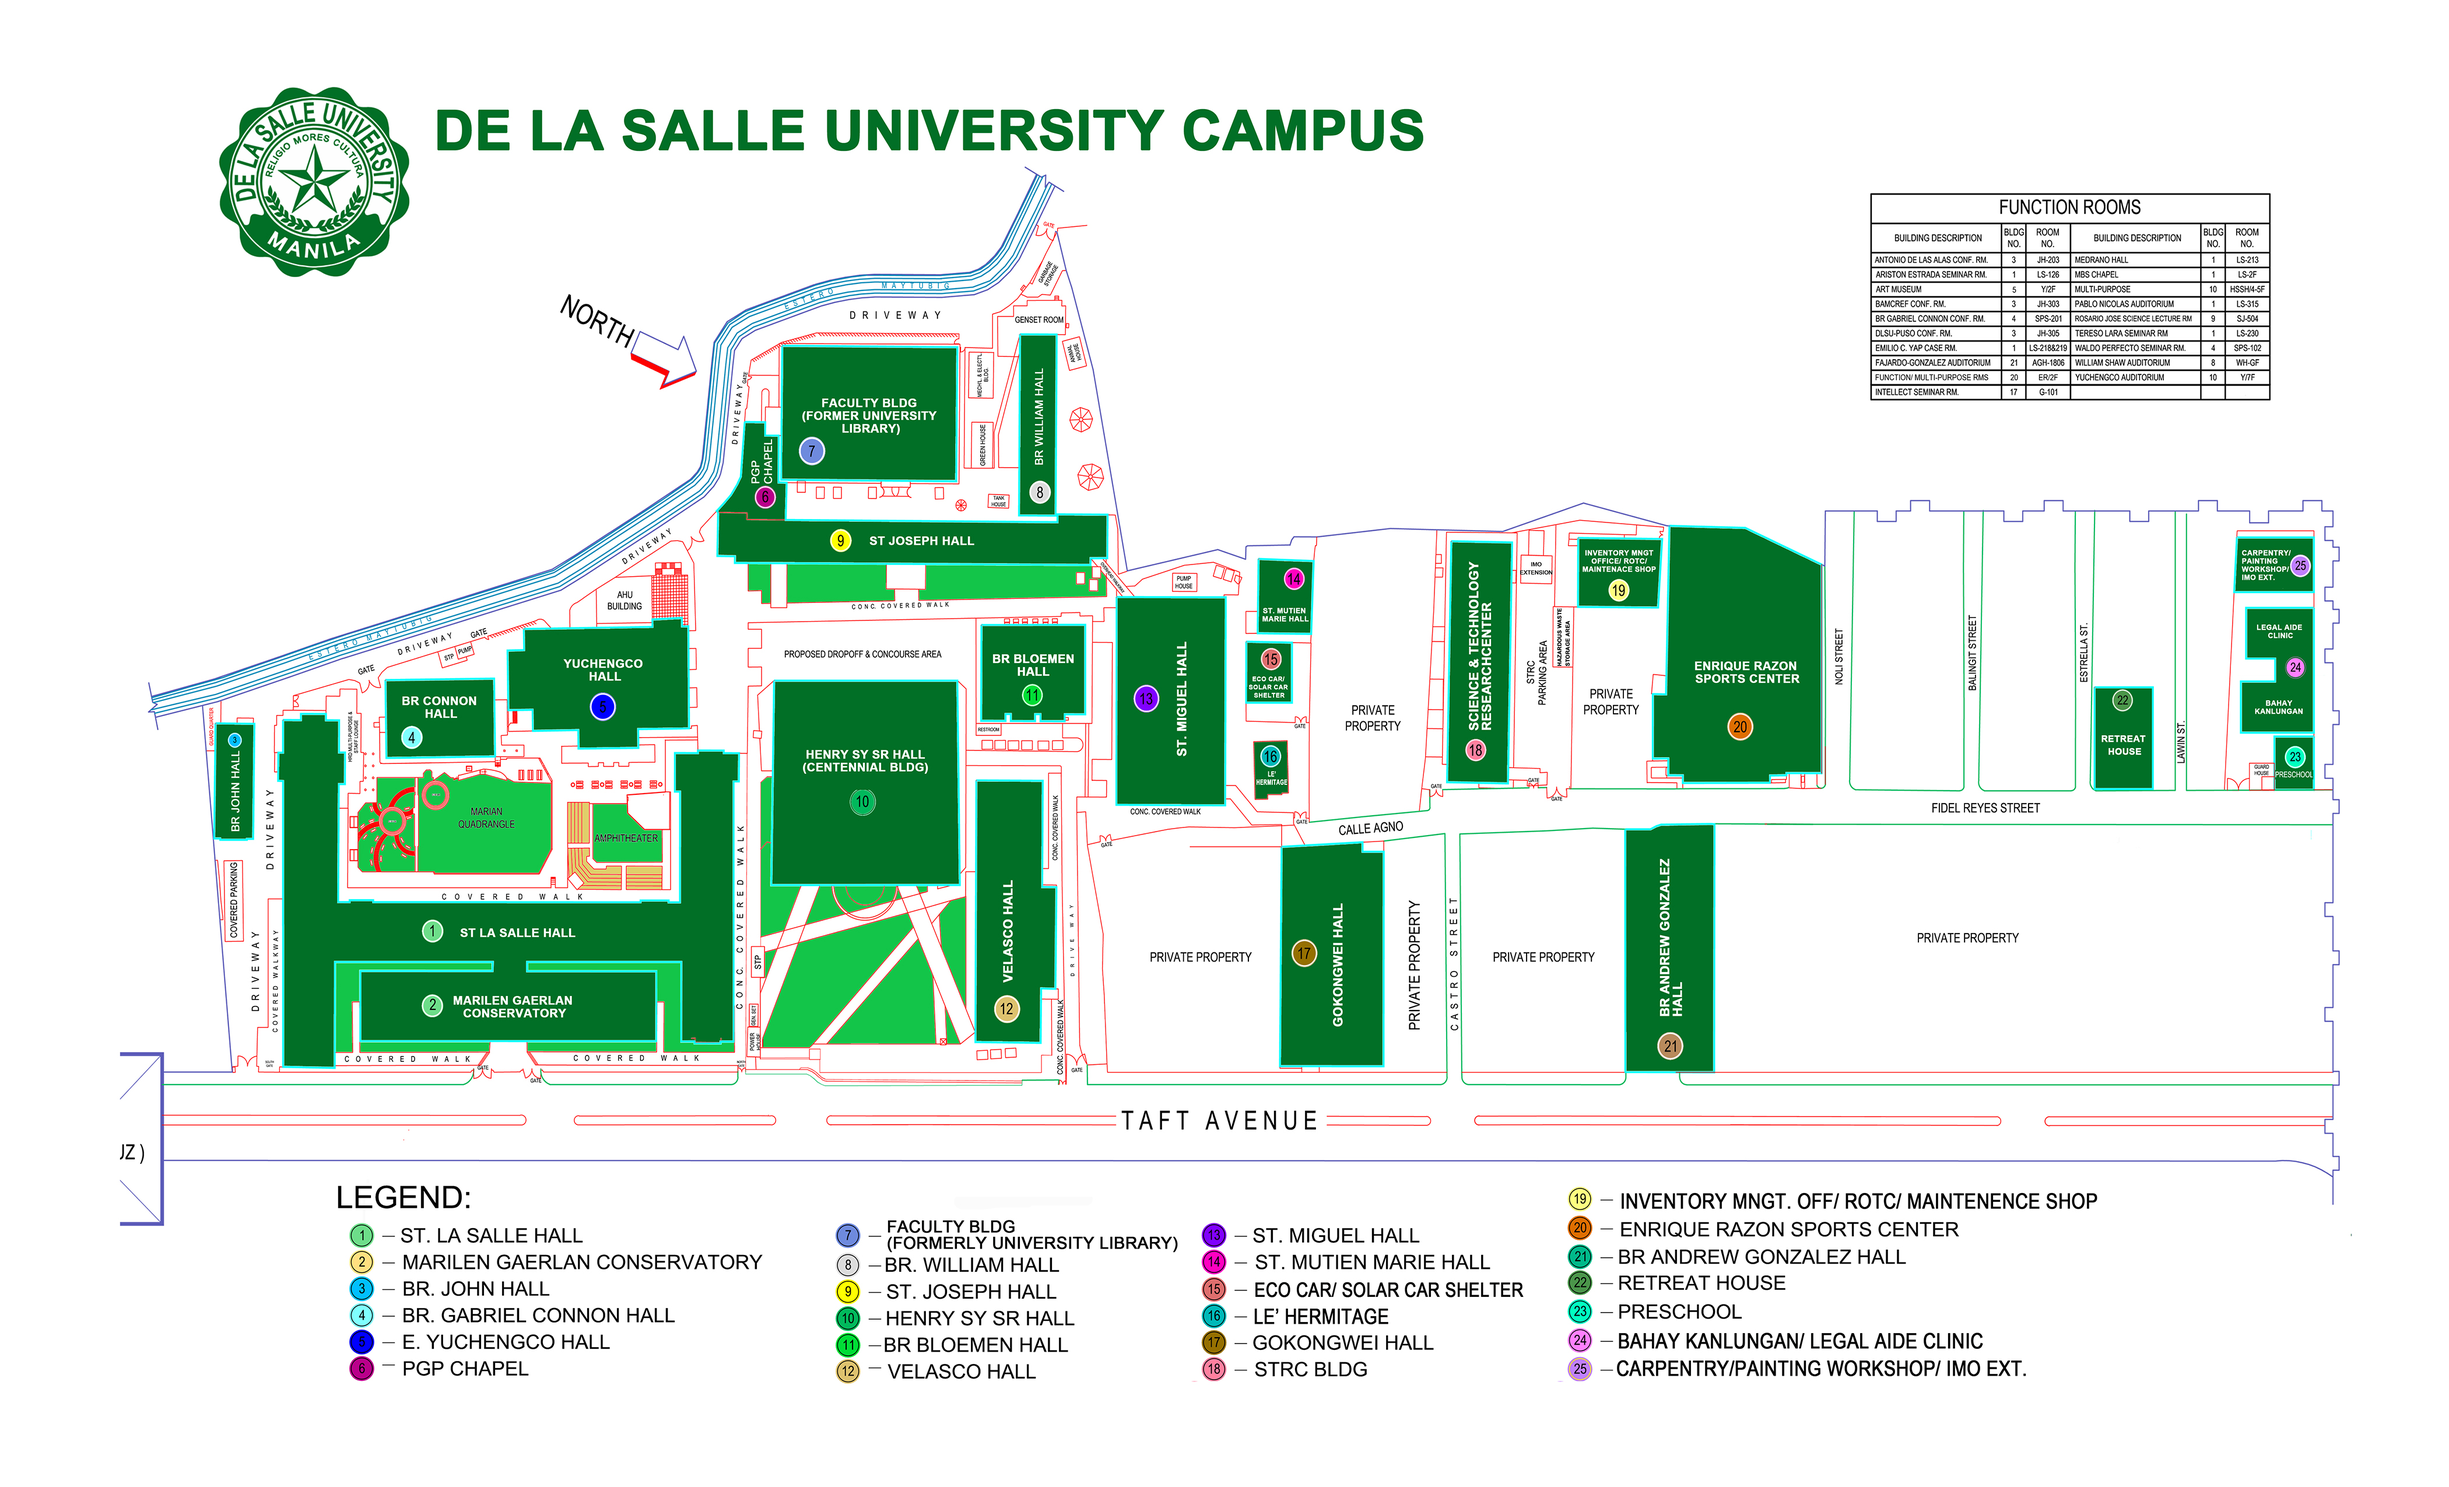
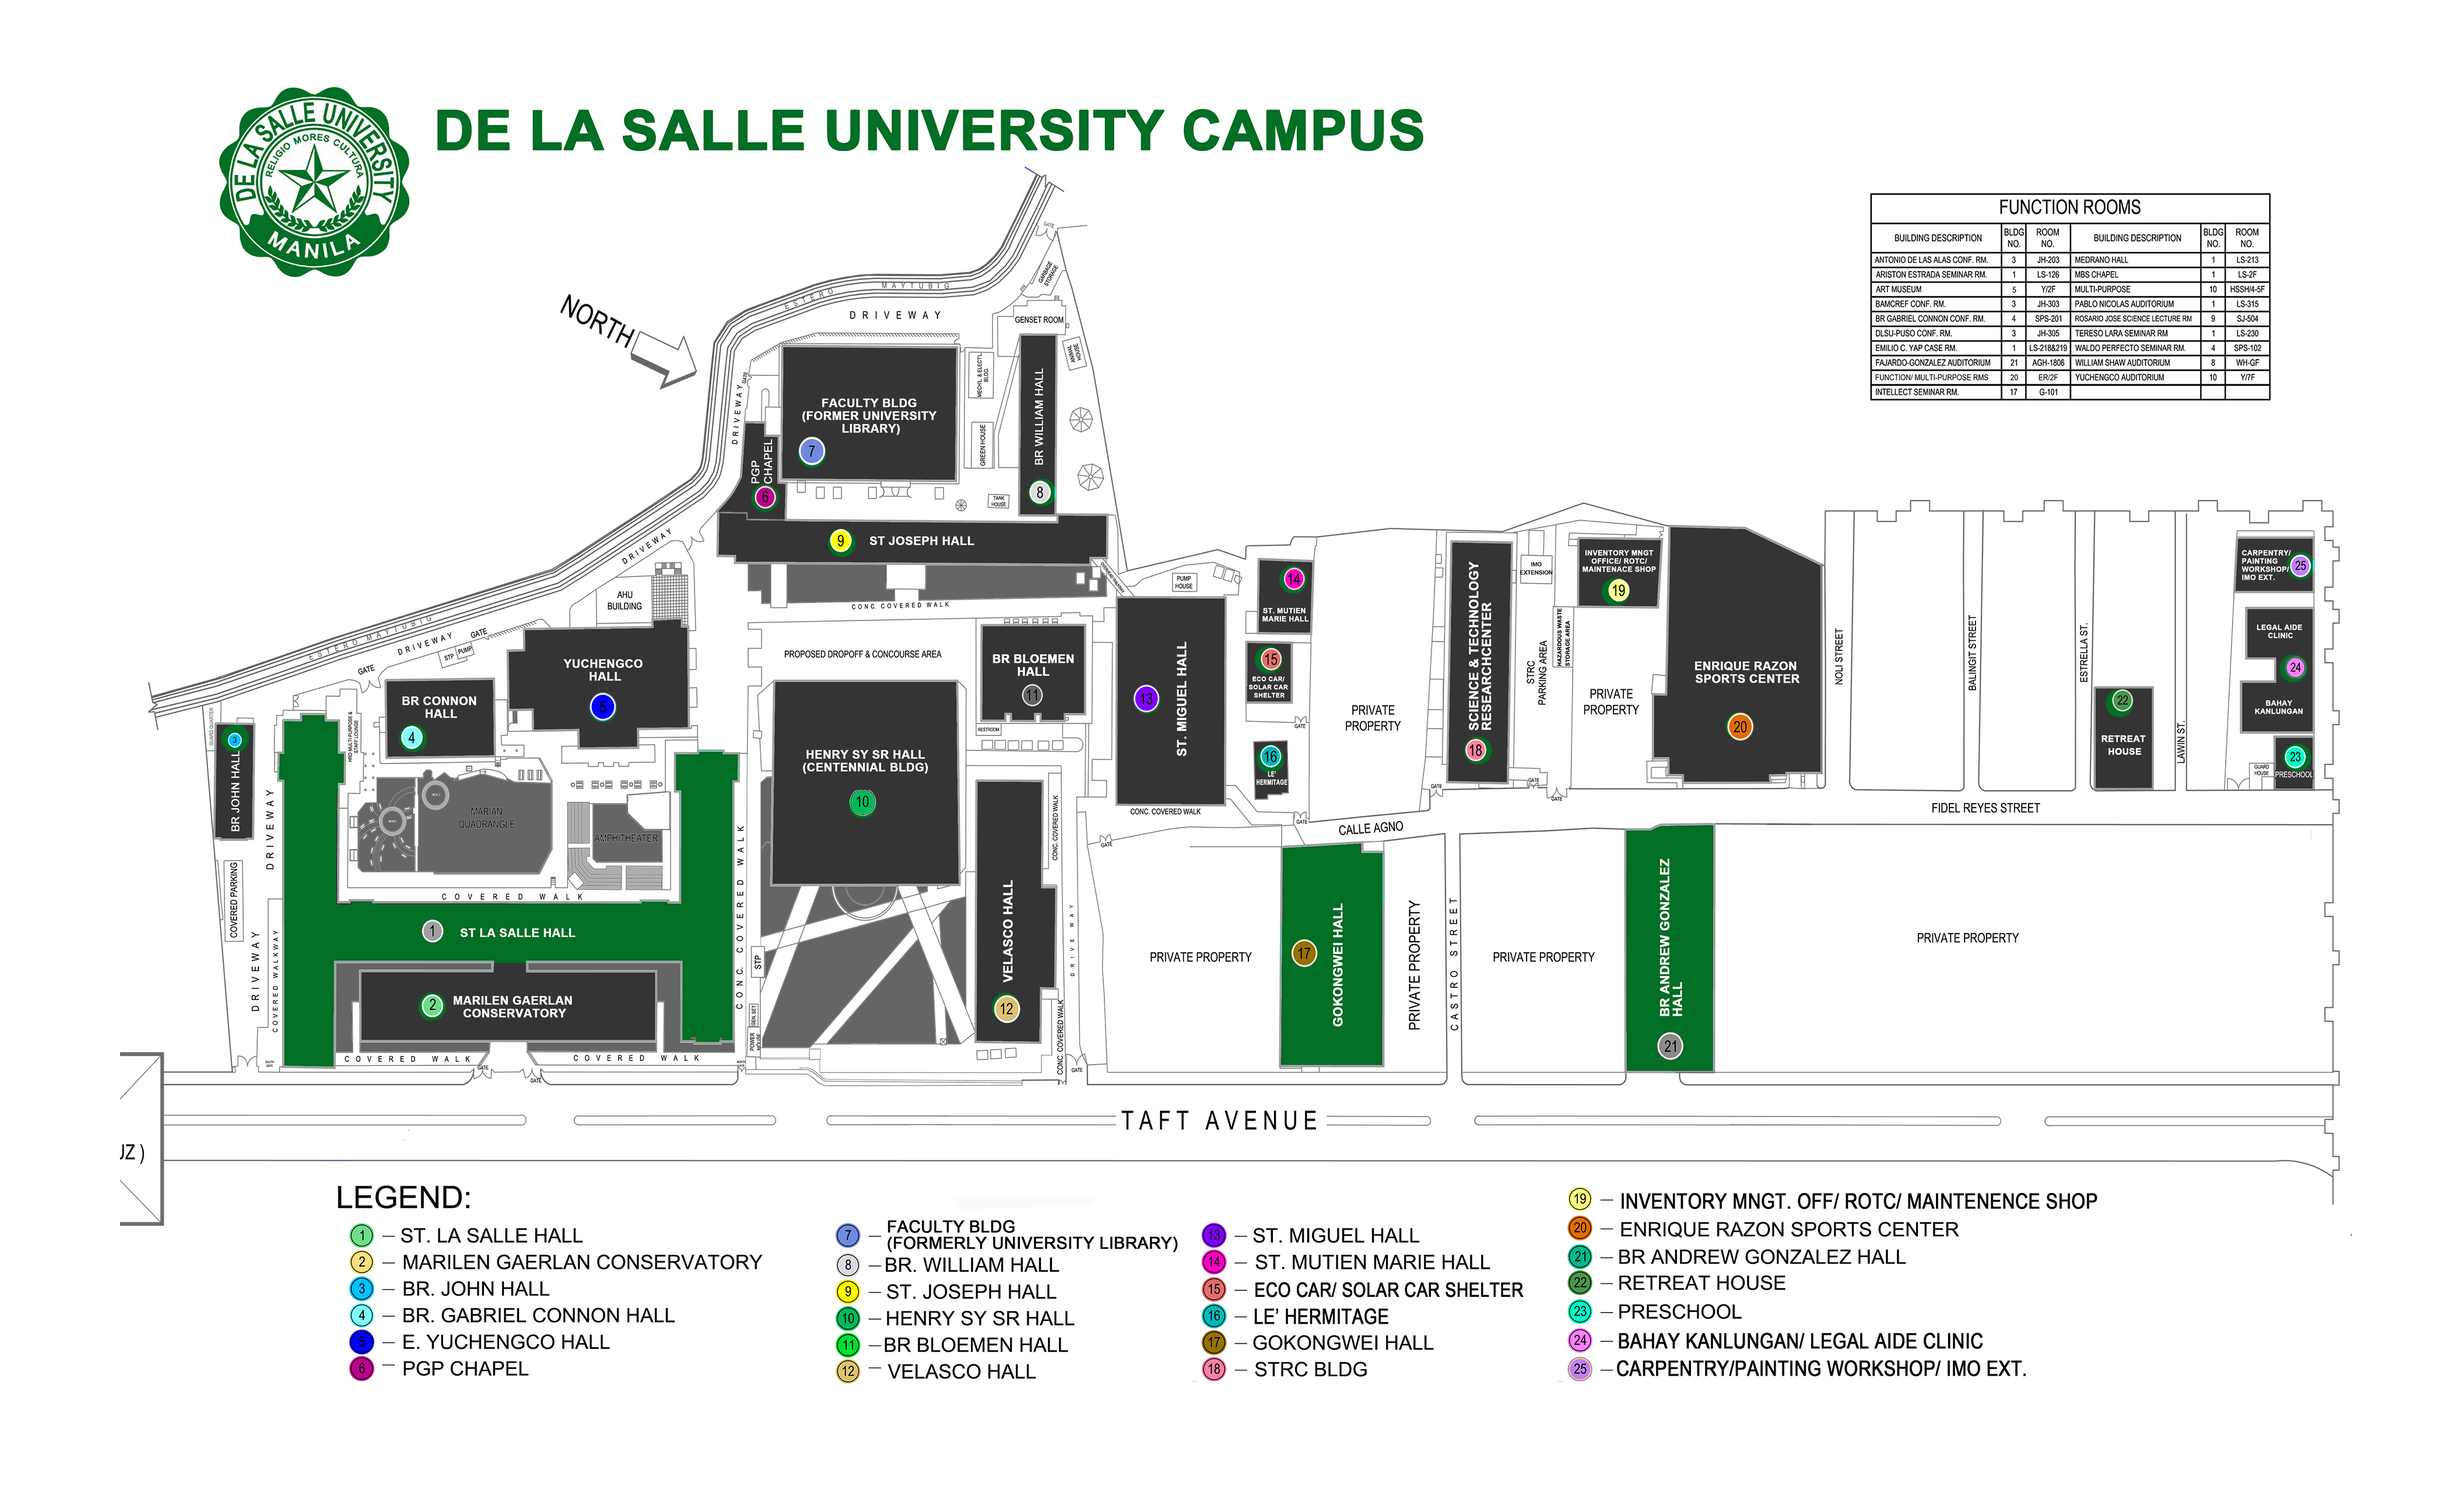
updated locations

diff --git a/LRS_Web_Application/src/components/style.css b/LRS_Web_Application/src/components/style.css
@@ -301,12 +301,54 @@ body {
 .LocationContainer{
     background-color: white;
     flex: 1;
-
+    display: flex;
+    flex-direction: column;
+    min-height: 100vh;
 }
 
 #locationContent{
     background-color: white;
     display: flex;
     flex-direction: row;
-    min-height: 87.1vh;
+    padding: 30px;
+}
+
+#campusmap{
+    position: relative;
+    display: flex;
+    flex-direction: column;
+
+}
+
+#labsmap{
+    position: relative;
+    display: flex;
+    flex-direction: column;
+}
+
+#campusmap h1, #labsmap h1{
+    color: #00703c;
+    white-space: nowrap;
+    font-weight: 900;
+}
+
+#campusmapimg{
+    position: relative;
+    left: -30px;
+    background-image: url('../assets/campus-map.jpg');
+    background-size: 1121px 700px;
+    width: 1121px;
+    height: 680px;
+    cursor: zoom-in;
+
+    transition: transform 0.3s ease-in-out;
+}
+
+#campusmapimg:hover {
+    transform: scale(1.2); 
+    overflow: hidden;
+  }
+
+#labsmap h1{
+    margin-left: 2vw;
 }

diff --git a/LRS_Web_Application/src/Pages/location.jsx b/LRS_Web_Application/src/Pages/location.jsx
@@ -1,9 +1,9 @@
+
 import { Header } from "../components/Header"
 import { Footer } from "../components/Footer"
 //import { Link } from 'react-router-dom'
 
 export function Location(){
-
     return(
         <>
             <div className="LocationContainer">
@@ -11,9 +11,10 @@ export function Location(){
                     <div id="locationContent">
                         <div id="campusmap">
                             <h1>Manila - Campus Map</h1>
-                            <span id="campusmap"></span>
+                            <span id="campusmapimg"></span>
                         </div>
                         <div id="labsmap">
+                            <h1>Lab Locations</h1>
                             <div id="gokslabs"></div>
                             <div id="stlslabs"></div>
                             <div id="brandrewlabs"></div>
